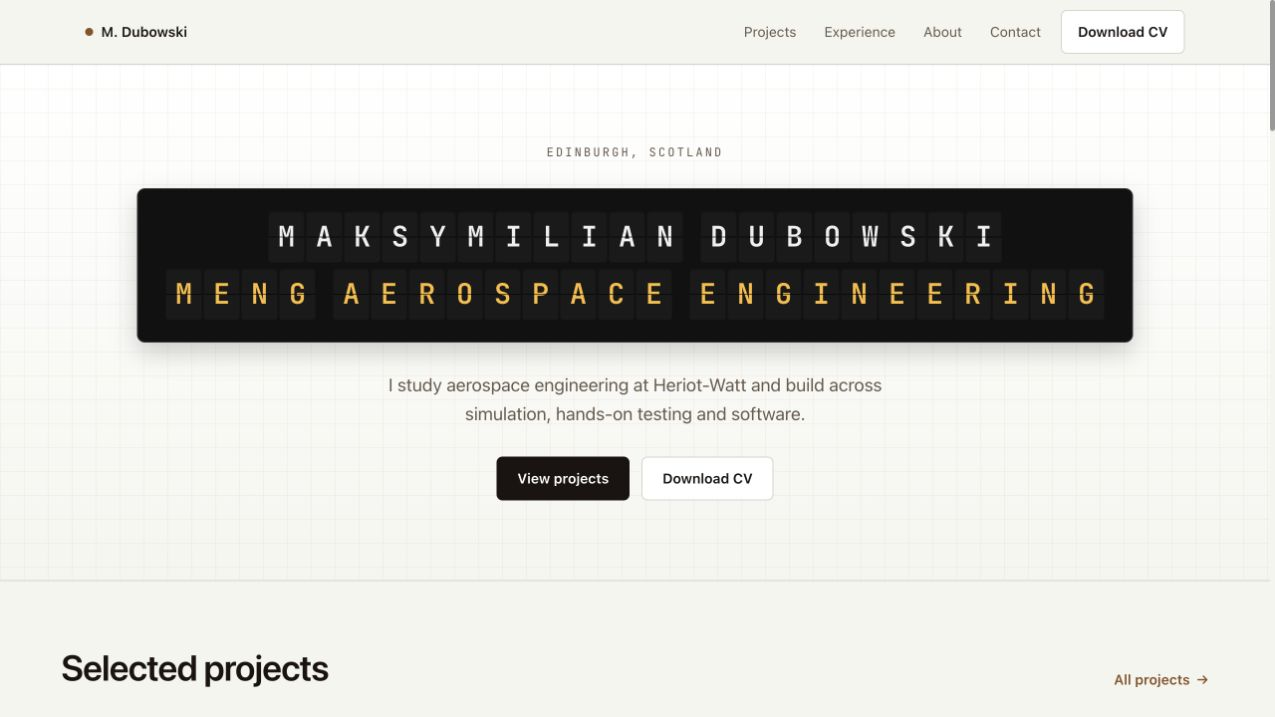
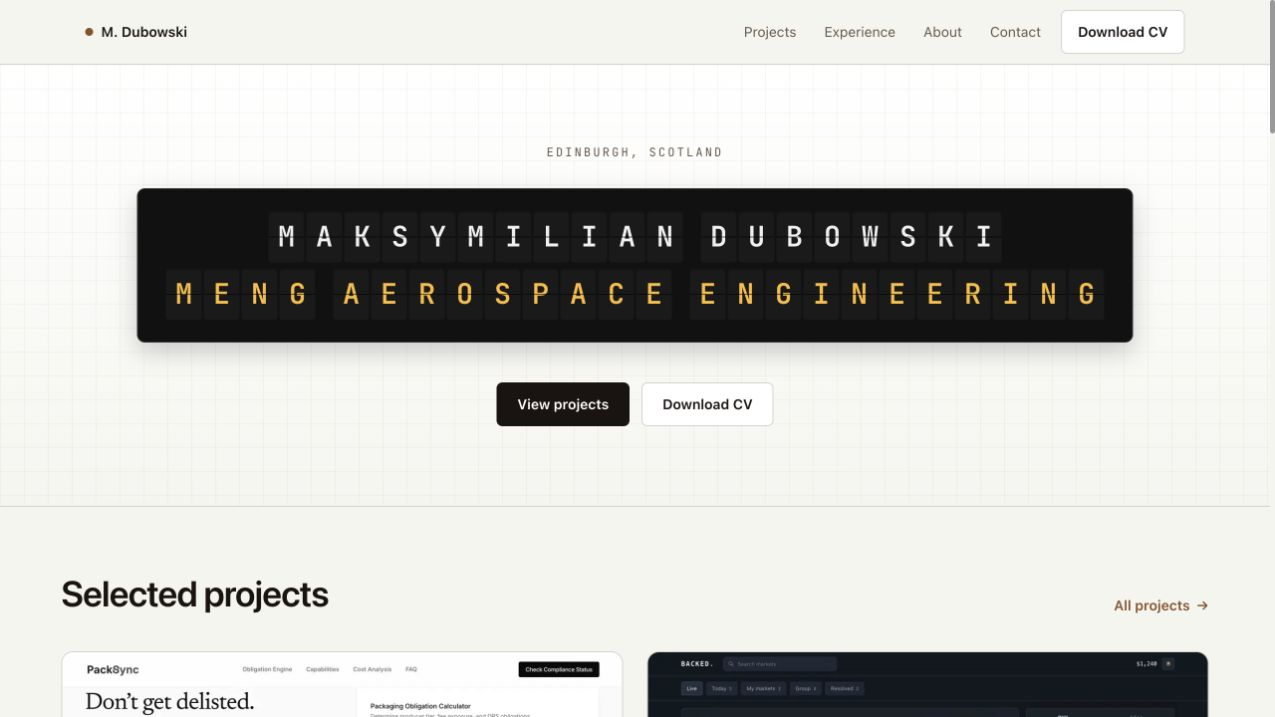
Trim hero and airfoil copy

diff --git a/src/components/Airfoil.tsx b/src/components/Airfoil.tsx
@@ -146,9 +146,10 @@ const STREAMLINES = [
 
 export default function Airfoil() {
   return (
-    <figure className="schematic-grid overflow-hidden rounded-xl border border-border bg-background">
+    <div className="schematic-grid overflow-hidden rounded-xl border border-border bg-background">
       <svg
-        aria-hidden="true"
+        role="img"
+        aria-label="Illustration of airflow around a wing cross-section"
         viewBox="0 65 1200 420"
         className="block w-full"
       >
@@ -173,9 +174,6 @@ export default function Airfoil() {
           vectorEffect="non-scaling-stroke"
         />
       </svg>
-      <figcaption className="border-t border-border bg-background px-4 py-3 font-mono text-xs text-muted">
-        Göttingen 386 airfoil · illustrative streamlines
-      </figcaption>
-    </figure>
+    </div>
   );
 }

diff --git a/src/components/Hero.tsx b/src/components/Hero.tsx
@@ -18,11 +18,7 @@ export default function Hero() {
             ]}
           />
         </div>
-        <p className="mx-auto mt-7 max-w-lg text-base leading-relaxed text-muted sm:text-lg">
-          I study aerospace engineering at Heriot-Watt and build across simulation,
-          hands-on testing and software.
-        </p>
-        <div className="mt-7 flex flex-wrap justify-center gap-3">
+        <div className="mt-8 flex flex-wrap justify-center gap-3 sm:mt-10">
           <a href="#projects" className="portfolio-button portfolio-button-primary">
             View projects
           </a>
